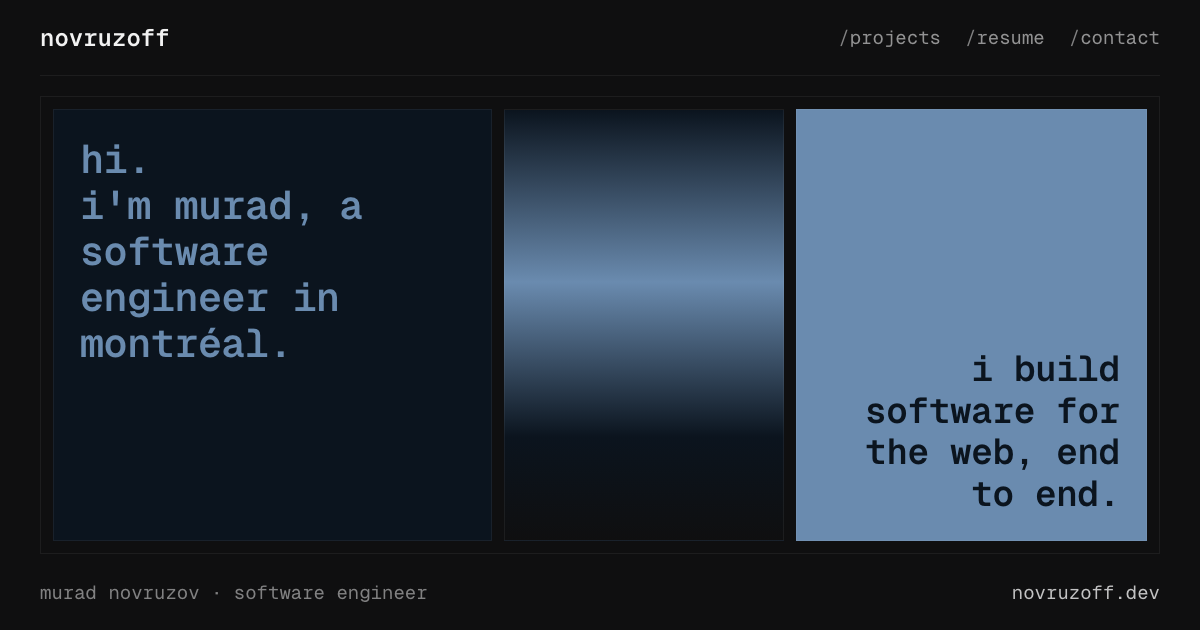
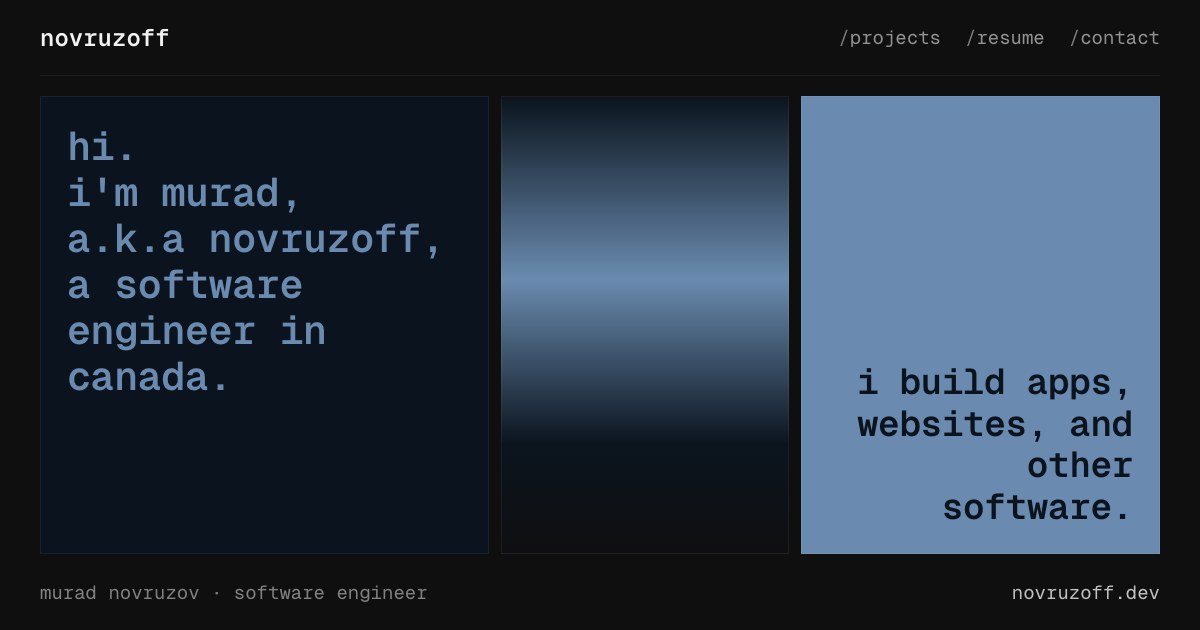
style(redesign): remove homepage panel frame and sync new panel copy

Changed region(s): [[0.6475, 0.1508, 0.9867, 0.9048], [0.0308, 0.2111, 0.37, 0.6333], [0.4008, 0.181, 0.4317, 0.6635]]

diff --git a/CLAUDE.md b/CLAUDE.md
@@ -121,7 +121,7 @@ Hierarchy:
 - **Footer:** 12px.
 - **Section headers:** 14px/600, `--text-secondary`.
 - **Page titles** (Penknife `h1`): `clamp(28px, 5vw, 36px)`/600, −0.01em.
-- **Panel display text** (homepage greeting and statement): 600, **line-height 1.12**, −0.01em, sized to the panel's width with container-query units (each panel is `container-type: inline-size`; `cqi` is its content box, inside the padding): **`clamp(20px, 16.5cqi, 64px)` in every layout**. The target, like jonahseguin.com, is the longest word on its own line ("montréal.", 9 characters × 0.59em = 5.31em) spanning ~87.5% of the inner width: 0.875 / 5.31 = 16.5cqi (18.8cqi would be 100%). Lines with two short words ("a software", 10 characters) can reach ~97%, still inside the padding. **The locked 2×2 also caps it by height**: `clamp(20px, min(16.5cqi, 7.4vh − 19px), 64px)` (≤ 6 lines × 1.12 must fit an inner height of 50vh − 125px); without it a wide, short 2×2 (640×640, 767×640) would push the greeting past the panel's bottom. Measured, nothing overflowing or breaking mid-word: 1440×900 37.2px, 1920×1080 53.1px, 1024×768 23.7px, 1000×700 30.8px, 768×1024 51.3px, 375×812 51.0px, 320×640 41.9px (all 87.6%); sized down: 640×640 and 767×640 28.4px (height cap), 2560×1440 64px (the clamp's maximum, 75.6%). Big type makes the phone page taller than one screen (the greeting alone is ~375px at 375 wide). If the copy changes, re-check the longest word: the 16.5cqi assumes 9 characters.
+- **Panel display text** (homepage greeting and statement): 600, **line-height 1.12**, −0.01em, sized to the panel's width with container-query units (each panel is `container-type: inline-size`; `cqi` is its content box, inside the padding): **`clamp(20px, 16.5cqi, 64px)` in every layout**. 16.5cqi was set, like jonahseguin.com, so a 9-character longest word on its own line spans ~87.5% of the inner width (9 × 0.59em × 16.5 = 87.6%). **The current copy's longest word is "novruzoff," (10 characters), which spans ~97.4%**: still inside the padding (16.9cqi would be 100%), but over that target; 14.8cqi would bring it back to ~87.5%. **The locked 2×2 also caps it by height**: `clamp(20px, min(16.5cqi, 6.35vh − 15px), 64px)`. The greeting wraps to at most 7 lines (its four `<span>`s force at least 4) and 7 × 1.12 × size must fit the inner height, 50vh − 112.6px; without the cap 768×1024 overflowed by 21px. Measured, nothing overflowing or breaking mid-word: 1440×900 38.1px, 1920×1080 53.9px, 1024×768 24.6px, 1000×700 31.8px, 375×812 51.0px, 320×640 41.9px ("novruzoff," 97.3–97.4%); sized down by the height cap: 768×1024 50.0px (91.1%, 6px to spare), 700×900 42.1px, 640×640 and 767×640 25.6px. Big type makes the phone page taller than one screen. **If the copy changes, re-measure the longest word and the 2×2 line count**: both formulas depend on them.
 
 ### Motion system
 
@@ -152,7 +152,7 @@ Small and specific. No GSAP, no smooth scroll, no scroll-driven or scroll-trigge
 
 #### Home panel grid (`src/pages/index.astro`)
 
-Header, panel grid, footer in one flex column. Five panels: **photo a · greeting · video · statement · photo b**. Every panel has a 0.5px `--border-subtle` frame and a 12px gap; from 640px up the whole grid sits in a 0.5px outer frame with 12px of padding.
+Header, panel grid, footer in one flex column. Five panels: **photo a · greeting · video · statement · photo b**. Every panel has its own 0.5px `--border-subtle` frame, with a 12px gap between panels. **There's no outer frame** around the grid: its outer edges are the `.wrap-wide` content edges, so they line up exactly with the header's ("novruzoff" on the left, the last nav link on the right; measured 0.00–0.02px at every layout). The page chrome around the locked grid (header, the 12px above and below, footer) is ~139px.
 
 | Viewport | Layout |
 |---|---|
@@ -162,8 +162,8 @@ Header, panel grid, footer in one flex column. Five panels: **photo a · greetin
 | < 640px | Two columns that scroll: greeting across the top, photo a + video side by side (3:4 each), statement across the bottom, photo b hidden, no outer frame. About one phone screen (verified at 375×812 and 320×640) |
 
 - **Height guard.** From 640px wide *and* 640px tall, the page is locked to exactly one viewport (`100dvh`) and the grid rows share what's left; media panels drop their aspect ratio and fill the cell. Below 640px tall, nothing is locked: media panels keep their aspect ratio (3:4 in 2×2 and on phones, 2:3 in the four- and five-column layouts), text panels match their row, and the page scrolls. Text panels never clip, so text can't be squeezed out.
-- **Greeting:** `--panel-dark` panel, `--panel-muted` text (5.23:1), top-left, as the page's `<h1>`: "hi." / "i'm murad, a software engineer in montréal."
-- **Statement:** the inverse, `--panel-muted` panel, `--panel-dark` text (5.23:1), bottom-right: "i build software for the web, end to end." Pure vibe: no company names, no metrics.
+- **Greeting:** `--panel-dark` panel, `--panel-muted` text (5.23:1), top-left, as the page's `<h1>`, one `<span>` per line: "hi." / "i'm murad," / "a.k.a novruzoff," / "a software engineer in canada."
+- **Statement:** the inverse, `--panel-muted` panel, `--panel-dark` text (5.23:1), bottom-right: "i build apps, websites, and other software." Pure vibe: no company names, no metrics. (The copy lives in `index.astro`; `HOME_GREETING` / `HOME_STATEMENT` in `scripts/generate-og.mjs` and the default `ogImageAlt` in `Layout.astro` mirror it, so change all three together and run `pnpm run og`.)
 - **Media panels** fill their cell with `object-fit: cover`. Photos are additionally **pre-cropped per layout** (`src/components/PanelPhoto.astro`, see Homepage media) so the file's shape matches the panel's and its width-based srcset is honest; the video is only center-cropped by cover, so a native 9:16 source crops least.
 - **Missing media** renders a quiet `--bg-elevated` block labelled "photo a" / "video" / "photo b" (11px, tertiary, `aria-hidden`). See Homepage media.
 
@@ -207,16 +207,16 @@ Optional at build time: `index.astro` finds each file with `import.meta.glob`, s
 
 | Layout (media condition, first match wins) | Crop (w:h) | `sizes` |
 |---|---|---|
-| ≥ 1024px and ≥ 640px tall (five columns, locked) | 9:25 (0.36; a 1440×900 panel is ~0.358) | `max(20vw − 24px, (100vh − 164px) × 0.36)`, fallback `20vw − 24px` |
-| 768–1023px landscape, ≥ 640px tall (four columns) | 5:12 (0.417) | `max(25vw − 25px, (100vh − 164px) × 0.4167)` |
-| ≥ 640px wide and tall (2×2, portrait tablets) | 6:7 (0.857) | `max(50vw − 36px, (50vh − 88px) × 0.857)` |
-| ≥ 1024px, or ≥ 768px landscape, on a short screen | 2:3 (the panel's fixed ratio) | `20vw − 24px` / `25vw − 25px` |
-| default: phones and short 2×2 | 3:4 (the panel's fixed ratio) | `50vw − 36px` (≥ 640px) / `50vw − 22px` |
+| ≥ 1024px and ≥ 640px tall (five columns, locked) | 9:25 (0.36; a 1440×900 panel is ~0.353) | `max(20vw − 19px, (100vh − 139px) × 0.36)`, fallback `20vw − 19px` |
+| 768–1023px landscape, ≥ 640px tall (four columns) | 5:12 (0.417) | `max(25vw − 19px, (100vh − 139px) × 0.4167)` |
+| ≥ 640px wide and tall (2×2, portrait tablets) | 6:7 (0.857) | `max(50vw − 22px, (50vh − 76px) × 0.857)` |
+| ≥ 1024px, or ≥ 768px landscape, on a short screen | 2:3 (the panel's fixed ratio) | `20vw − 19px` / `25vw − 19px` |
+| default: phones and short 2×2 | 3:4 (the panel's fixed ratio) | `50vw − 22px` (2×2 and phones) |
 
-- In the locked layouts the panel's shape follows the viewport, so the image renders at `max(panel width, panel height × crop ratio)`; that's what `sizes` says. Browsers that can't parse `max()` in `sizes` skip that entry and use the panel width. The 164px is the page chrome around the locked grid (header, paddings, frame, footer), measured; the column formulas match measured widths within 1–2px. If the page chrome or breakpoints change, update these together with the panel CSS.
+- In the locked layouts the panel's shape follows the viewport, so the image renders at `max(panel width, panel height × crop ratio)`; that's what `sizes` says. Browsers that can't parse `max()` in `sizes` skip that entry and use the panel width. The 139px is the page chrome around the locked grid (header, paddings, footer; no outer frame), measured; the column formulas match measured widths within 1–2px. If the page chrome or breakpoints change, update these together with the panel CSS.
 - Variants: widths 240/360/480/640/800/960/1200/1440 under each crop's maximum, plus the maximum itself (the largest box of that shape inside the source). Never upscaled: sharp runs with `withoutEnlargement`, which would otherwise clamp and break the crop's ratio.
 - Formats and quality: AVIF 60 → WebP 80 → JPEG 85 (the `<img>` fallback, default crop). The largest desktop AVIF is ~15 KB.
-- **Measured with the current 1254×1254 source** (rendered device px vs file px; ≤ 1.00× is sharp): 1440×900 @2x 451×1253 for 526×1470 (**1.17×, source-limited**); 1920×1080 @2x 1.59× (source-limited); 1024×768 @2x 0.96×; 1000×700 @2x 0.93×; 1280×600 @2x 0.96×; 768×1024 @2x 0.91×; 375×812 @3x 0.77×; 1440×900 @1x 0.73×. Before the pipeline: 2.04× at 1440×900 @2x, 2.23× at 1024×768 @2x.
+- **Measured with the original 1254×1254 photo-a, before the outer frame was removed** (the photos have since been replaced and the panels are ~5px wider and ~25px taller; re-measure before relying on these) (rendered device px vs file px; ≤ 1.00× is sharp): 1440×900 @2x 451×1253 for 526×1470 (**1.17×, source-limited**); 1920×1080 @2x 1.59× (source-limited); 1024×768 @2x 0.96×; 1000×700 @2x 0.93×; 1280×600 @2x 0.96×; 768×1024 @2x 0.91×; 375×812 @3x 0.77×; 1440×900 @1x 0.73×. Before the pipeline: 2.04× at 1440×900 @2x, 2.23× at 1024×768 @2x.
 - Measuring it: `img.naturalWidth` with a `w`-descriptor srcset is divided by the chosen candidate's density, so it only echoes `sizes`. Read a file's real pixels by loading `currentSrc` into a plain `new Image()`.
 
 **Strip GPS/EXIF from photos before committing**: the repo is public, and git history keeps the original files even though the served images are re-encoded. Set `PHOTO_A_ALT` / `PHOTO_B_ALT` in `index.astro` to describe the photos (they're empty, i.e. decorative, until real photos land).
